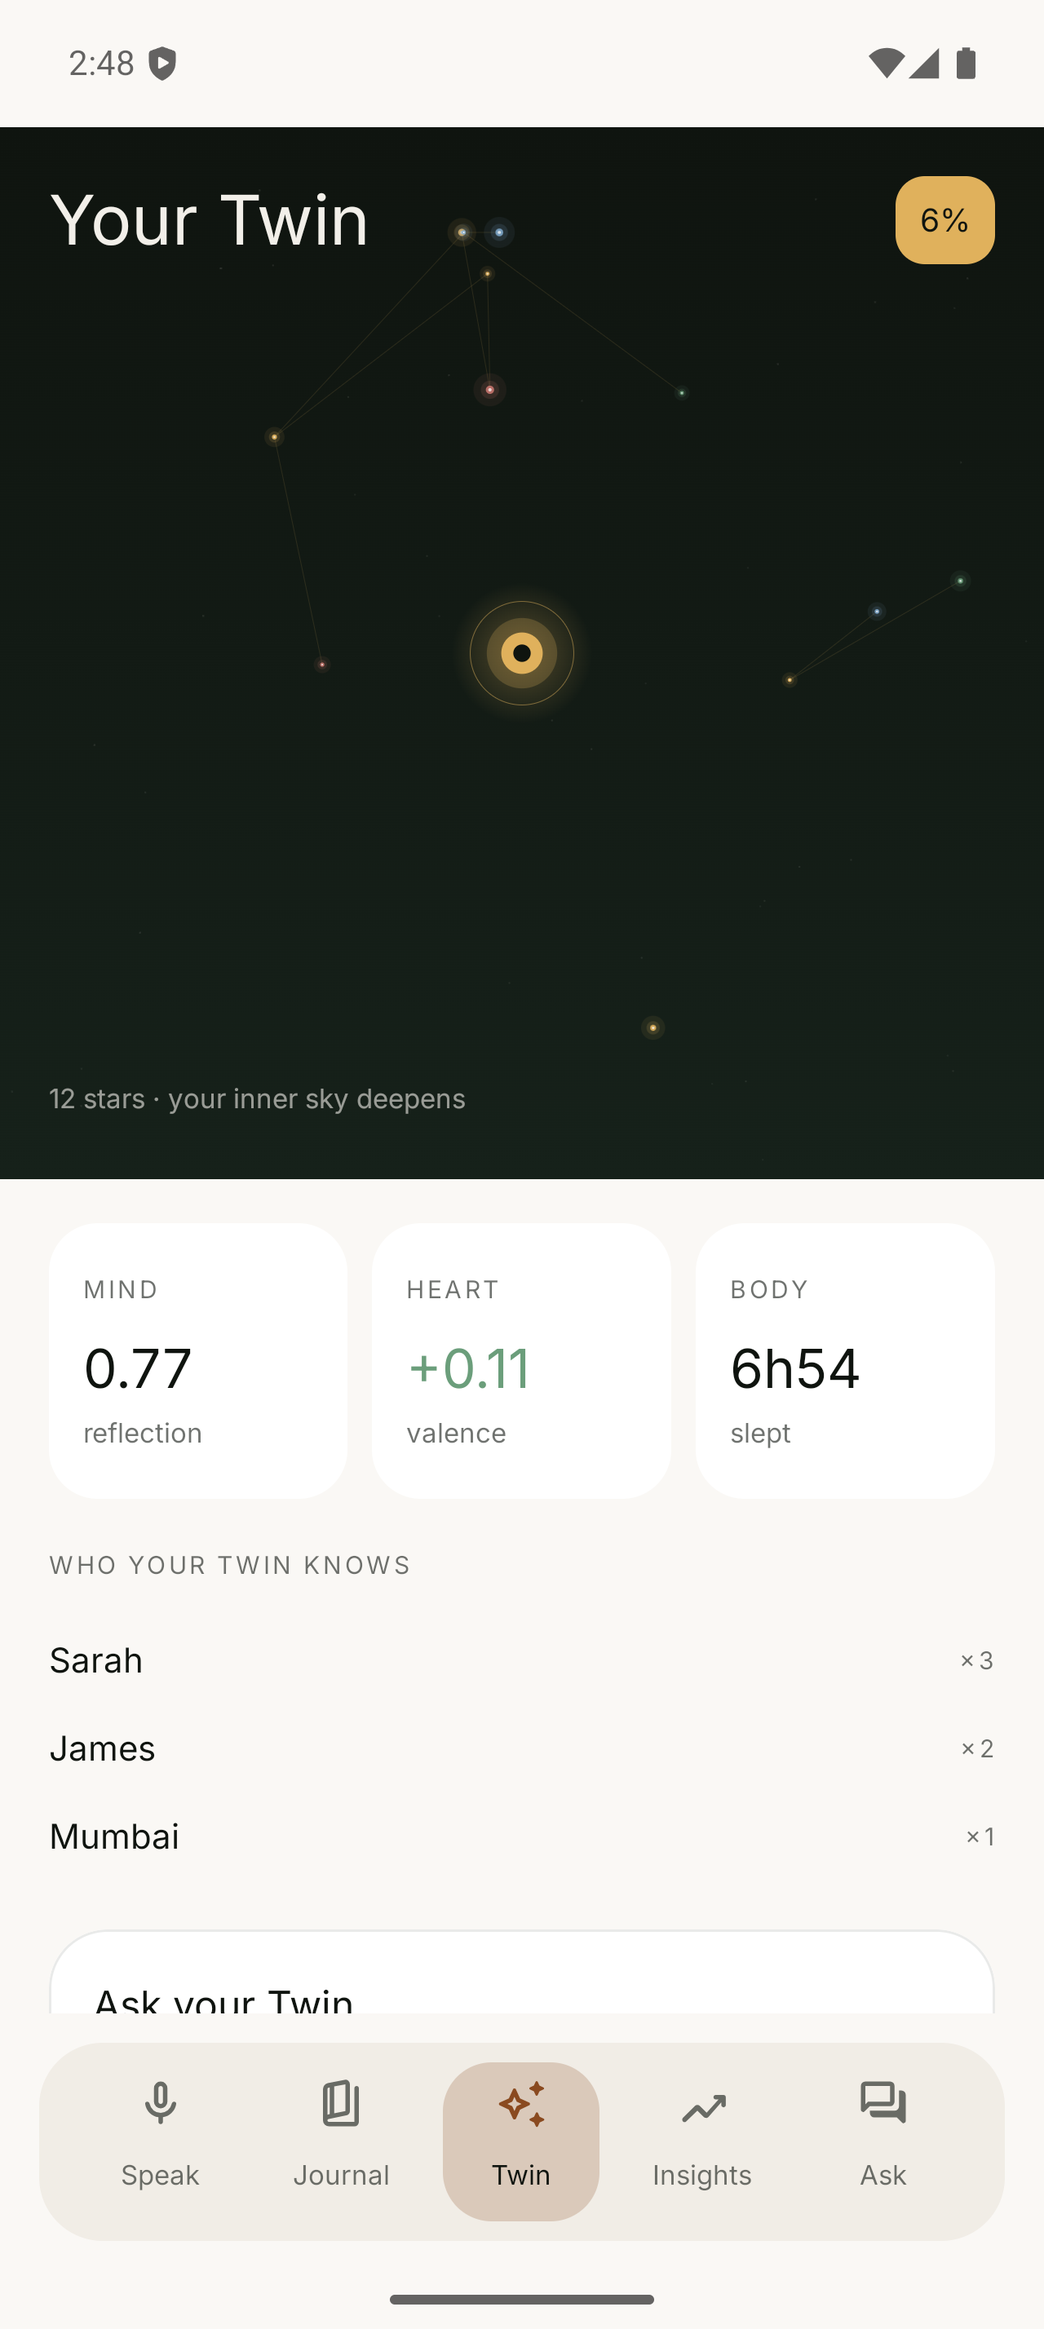
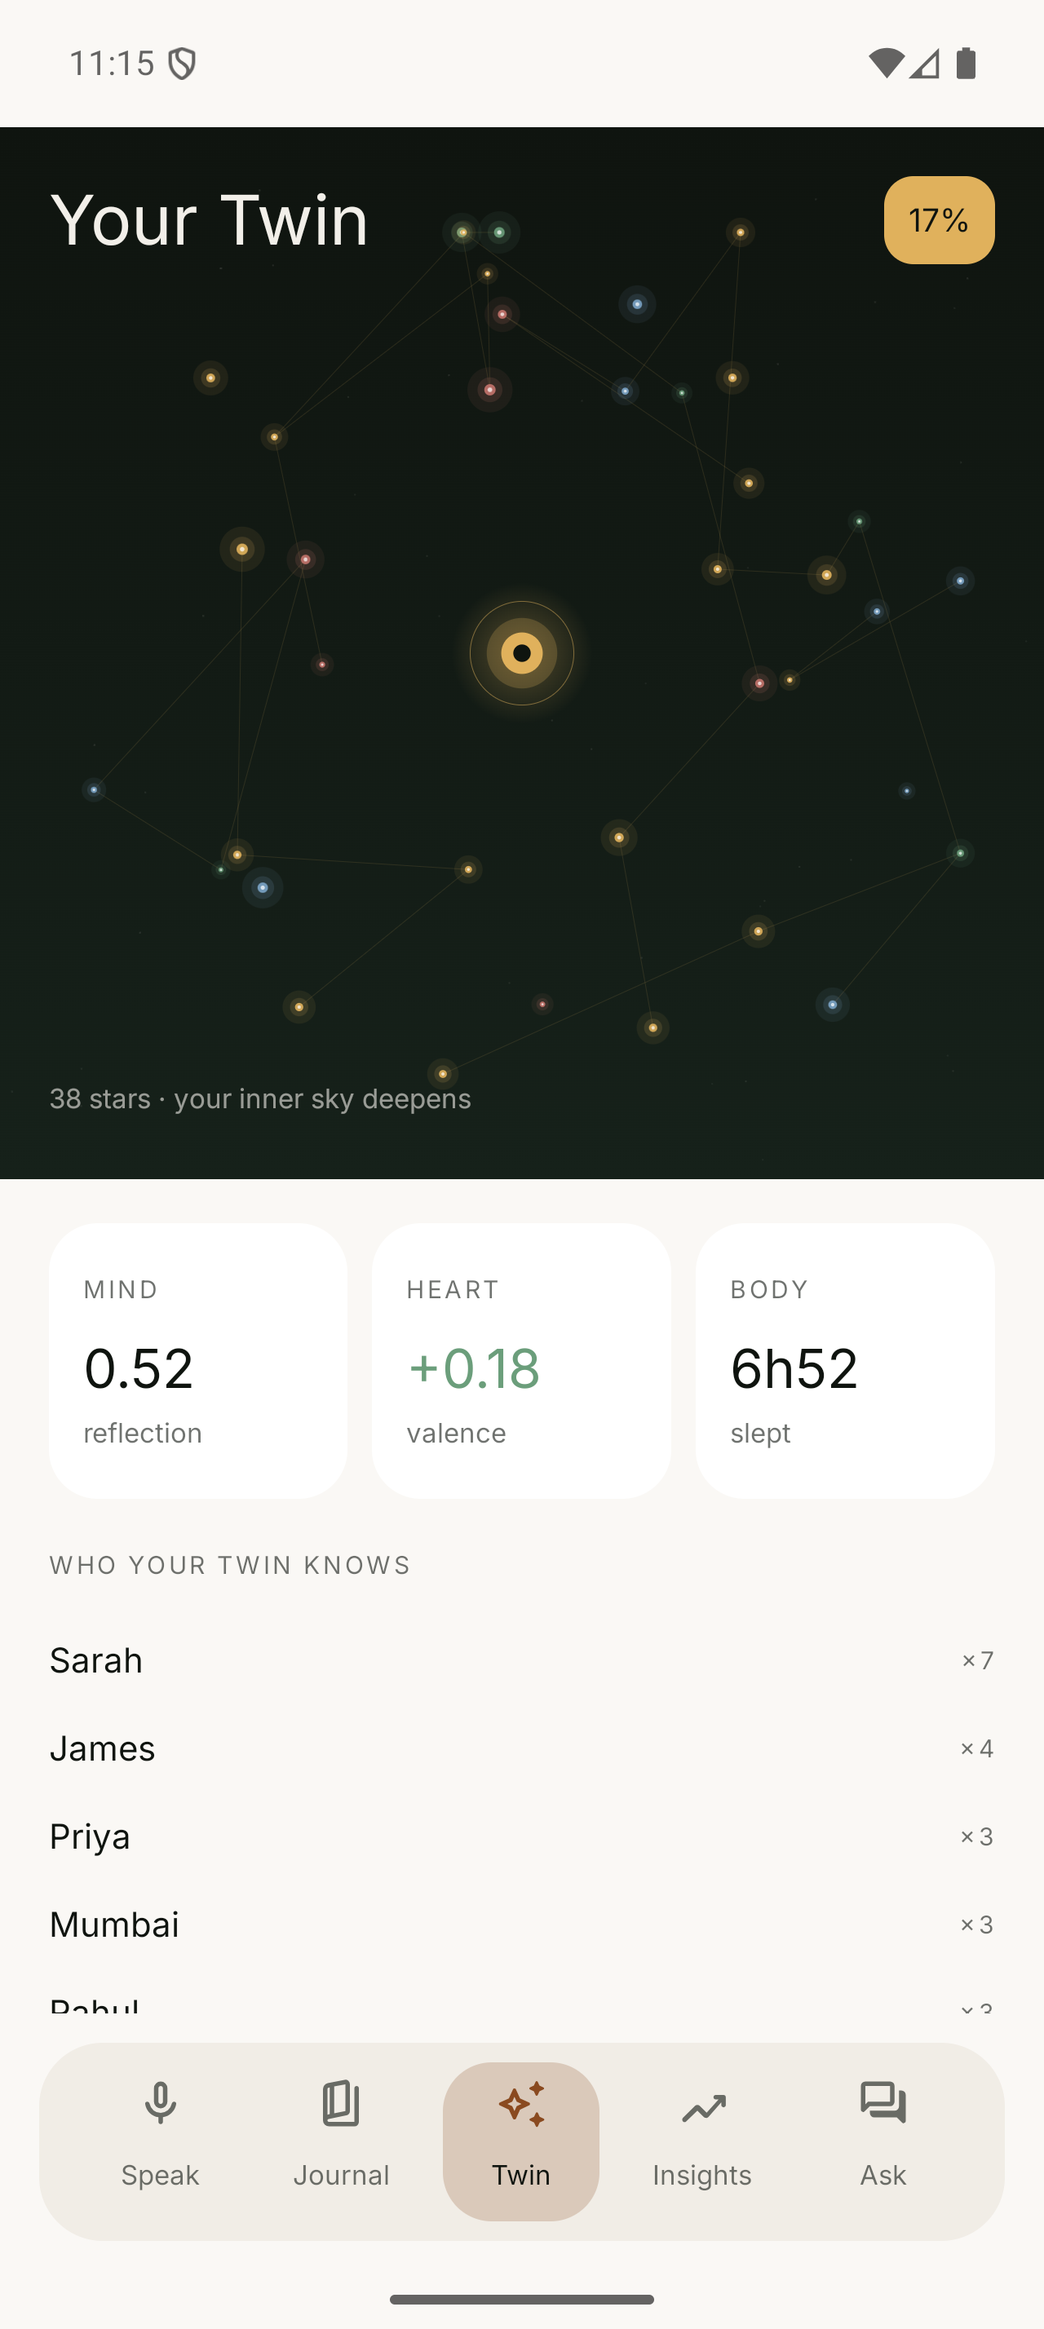
design(android): ship the direction the design package actually recommended
Karthik: "the UI is completely boring and no one will prefer to use it." He was
right, and the cause was not taste — I had shipped the wrong half of the spec.

The design package's direction 1c is annotated, in the designer's own words,
"Night sky — the middle path, AND MY RECOMMENDATION ... dark by default because
the app is used at night." Turn 3 then merged 1b and 1c into one system with two
themes. I built that system and defaulted the theme to SYSTEM — so on any phone
not already in dark mode the app opened on the LIGHT theme: cream paper, ink
text, a black disc for a record button. Technically inside the spec, and the
exact opposite of what was recommended.

- Default theme is now DARK.
- The dark palette is retuned for CONTRAST. The spec's own values rendered as
  mud: surfaces at #1A211A on a #0F140F ground have no edge, so nothing
  separated. Ground goes to #0A0D0A, surface to #1C241C, secondary text from 60%
  to 70%, and amber brightens to #F0BE63 so it reads as the action colour rather
  than a tint.
- The record button is the app's most-used control and was a flat dark disc.
  1c draws a large lit amber one, so: three stacked glow passes instead of a
  single wash, an off-centre highlight so the disc reads as lit rather than
  filled, and a crisp rim against the bloom.
- The mic glyph was one rounded rect, which became a dark smudge in the middle
  of a bright disc. Now a real silhouette — capsule, cradle arc, stem.
[…]

diff --git a/android/app/src/main/kotlin/com/dailyvox/app/data/DummyData.kt b/android/app/src/main/kotlin/com/dailyvox/app/data/DummyData.kt
@@ -16,27 +16,68 @@ import java.util.UUID
  */
 object DummyData {
 
+    /** Sleep hours, cycled across the seed. Nulls are deliberate — a phone with
+     *  no wearable has gaps, and the Body row has to survive them. */
+    private val SLEEP = listOf(
+        7.2f, 6.1f, null, 7.9f, 4.8f, 7.0f, 8.1f, null, 6.4f, 7.5f,
+        6.8f, 7.2f, 5.9f, 8.4f, null, 6.6f, 7.8f, 5.2f, 7.1f, 6.9f,
+        8.0f, null, 6.3f, 7.4f, 4.9f, 7.7f,
+    )
+
     private val texts = listOf(
-        "Walked before anyone was up. Sarah's flight lands tonight and I'm more nervous than I expected. The house feels different when someone's about to come back to it." to 52,
-        "The review went sideways. James pushed back on the timeline and I let it get to me. I should have said less and listened longer." to 78,
-        "Emma called out of nowhere. Two hours. Nothing important, all of it important." to 41,
-        "Long hike up the ridge trail with Sarah. We got rained on half a mile below the summit and neither of us had a jacket. Best afternoon in weeks." to 96,
-        "Slept badly again. Work is sitting on my chest at 3am and I cannot put it down. Need to fix this before it fixes me." to 64,
-        "Priya sent photos from the wedding. The mango cake, the power cut halfway through dinner, a speech that ran twenty minutes long. I laughed out loud on the bus." to 71,
+        "Walked before anyone was up. Sarah's flight lands tonight and I'm more nervous than I expected. The house feels different when someone is about to come back to it, like it has been holding its breath." to 52,
+        "The review went sideways. James pushed back on the timeline and I let it get to me. I should have said less and listened longer, and I knew that while it was happening." to 78,
+        "Emma called out of nowhere and we talked for two hours. Nothing important, all of it important. I forget how much lighter I am afterwards until I hang up." to 41,
+        "Long hike up the ridge trail with Sarah. We got rained on half a mile below the summit and neither of us had a jacket. Best afternoon in weeks and neither of us said so out loud." to 96,
+        "Slept badly again. Work is sitting on my chest at three in the morning and I cannot put it down. Need to fix this before it fixes me." to 64,
+        "Priya sent photos from the wedding. The mango cake, the power cut halfway through dinner, a speech that ran twenty minutes long. I laughed out loud on the bus and did not care." to 71,
         "Quiet Sunday. Cooked properly for the first time in a fortnight, read on the balcony, did not open the laptop once. Calm, and I noticed it while it was happening." to 58,
-        "Told Sarah about the job thing finally. She was steadier about it than I was. Grateful is the word, though it feels too small." to 83,
+        "Told Sarah about the job thing finally. She was steadier about it than I was. Grateful is the word, though it feels too small for what she did." to 83,
         "Frustrated with myself today. Same argument with James, same shape as last month. I keep choosing to be right instead of useful." to 67,
-        "Ran the loop around the reservoir. Headwind both directions somehow. Legs tired, head clear, which is the trade I keep making." to 45,
-        "Emma's moving to Mumbai in March. Happy for her and quietly gutted. Both, all day." to 55,
+        "Ran the loop around the reservoir. Headwind both directions somehow. Legs tired, head clear, which is the trade I keep making and keep being glad about." to 45,
+        "Emma is moving to Mumbai in March. Happy for her and quietly gutted. Both, all day, without either one winning." to 55,
         "Good week. Shipped the thing, slept seven hours three nights running, and nothing broke. Writing it down so I remember it happened." to 62,
+        "Coffee with Adyah before work. She asked what I actually want this year and I did not have an answer ready, which told me something." to 49,
+        "The flat is too quiet with Sarah away. Put music on and cooked badly. It helped more than it should have." to 44,
+        "Long day at the studio with Rahul. We rebuilt the whole second half and it is better, but I am running on fumes." to 88,
+        "Rain all afternoon. Read by the window and let the phone stay in the other room. I should protect these hours more carefully." to 39,
+        "James apologised, properly, without me asking. I did not expect it and I did not handle it well. Better than last month though." to 72,
+        "Saw Priya and the baby. Held her for an hour and got nothing else done. Best hour of the month by a distance." to 47,
+        "Grey mood, no particular reason. Walked to the market anyway and bought too many oranges. Small wins count." to 51,
+        "Sarah is back. The house sounds right again. We stayed up far too late and I regret nothing about it." to 66,
+        "Presented to the board and it went fine, which after three weeks of dread feels almost anticlimactic." to 74,
+        "Nothing happened today and that was the point. First Saturday in months with no plans at all." to 36,
+        "Adyah's leaving do at the noodle place. Loud, warm, slightly too long, exactly right. Mumbai is lucky." to 59,
+        "Woke at four and could not get back down. Made tea at five and watched it get light. Strangely peaceful once I stopped fighting it." to 61,
+        "Trail run with Rahul in the fog. Could not see twenty feet ahead and it was the best hour of the week." to 53,
+        "Difficult call with the team. Said the honest thing instead of the easy thing and it cost me the afternoon." to 81,
+        "Emma sent a photo of her new place in Mumbai. Bare walls, good light. She sounds like herself again." to 43,
+        "Slept nine hours and it changed everything about today. I keep relearning this lesson and keep forgetting it." to 38,
+        "Sarah cooked, I washed up, we argued about a film neither of us liked. An ordinary evening and I would keep it." to 57,
+        "Back on the reservoir loop after a fortnight off. Slower than I wanted, happier than I expected." to 46,
+        "James and I finally agreed on the timeline. Took three weeks longer than it should have and I own most of that." to 69,
+        "Quiet week, steady work, nothing to report. Writing that down feels like its own kind of progress." to 41,
+        "Priya asked how I actually am, and waited for the real answer. Not many people do that." to 54,
+        "Walked to the ridge trail alone at dawn. Nobody there. Sat for twenty minutes and came back different." to 63,
+        "Bad news about the funding. Sat with it, told Sarah, felt better. Still bad news, but carryable." to 77,
+        "First proper sun in weeks. Worked from the balcony and got more done than in a week of the desk." to 48,
+        "Rahul is going freelance. Nervous for him and slightly envious, which is worth noticing." to 52,
+        "Two months of this now. Looking back at the early ones, I sound like someone else. That is the whole point of it." to 65,
     )
 
     fun entries(): List<Entry> {
         val now = System.currentTimeMillis()
         val day = 86_400_000L
-        // Spread across ~5 weeks, with a recent run of consecutive days so the
-        // streak counter and the 30-night strip both have something to show.
-        val offsets = listOf(0L, 1, 2, 3, 5, 8, 11, 15, 19, 24, 29, 34)
+        // Spread across ~13 weeks, with an unbroken run of 21 recent days.
+        //
+        // Deliberately dense. The first seed was twelve entries over five weeks,
+        // which rendered a Twin constellation of twelve sparse dots, a "Day 4"
+        // counter and 6% resolution. Every store screenshot was therefore
+        // advertising an app that looked barely used — the Twin is the product's
+        // hero screen and it was nearly empty. iOS seeds 140 stars for the same
+        // reason.
+        val offsets = (0L..20L).toList() +
+            listOf(22L, 24, 26, 29, 32, 35, 39, 43, 47, 52, 58, 64, 71, 78, 86, 91, 95)
         val corpus = mutableListOf<Entry>()
         texts.forEachIndexed { i, (text, dur) ->
             val (mid, lower) = com.dailyvox.twin.NameDetector.vocabulary(texts.map { it.first })
@@ -44,11 +85,22 @@ object DummyData {
                 Entry(
                     id = UUID.randomUUID().toString(),
                     text = text,
-                    createdAt = now - offsets[i] * day - (i * 3_600_000L),
+                    // Evening times, bounded so the stagger can NEVER cross midnight.
+                    // The previous version subtracted i hours cumulatively, so
+                    // by the 13th entry it had walked back past midnight and
+                    // merged two days — which silently broke the consecutive run
+                    // and showed "Day 7" for a 21-day seed.
+                    createdAt = now - offsets[i] * day - ((i % 5) * 1_800_000L),
                     durationSec = dur,
                     valence = com.dailyvox.twin.Sentiment.valence(text),
                     entities = com.dailyvox.twin.NameDetector.extract(text, mid, lower).joinToString(","),
-                    sleepHours = listOf(7.2f, 6.1f, null, 7.9f, 4.8f, 7.0f, 8.1f, null, 6.4f, 7.5f, 6.8f, 7.2f)[i],
+                    // Cycled, not indexed. This was a fixed 12-element list read
+                    // at [i] while the loop grew to 38 entries — an
+                    // IndexOutOfBoundsException on launch, and one that only
+                    // appeared because the seed got bigger. Any per-entry list
+                    // here has to be modulo-safe or it is a landmine for the
+                    // next person who adds a text.
+                    sleepHours = SLEEP[i % SLEEP.size],
                 )
             )
         }

diff --git a/android/app/src/main/kotlin/com/dailyvox/app/ui/screens/SpeakScreen.kt b/android/app/src/main/kotlin/com/dailyvox/app/ui/screens/SpeakScreen.kt
@@ -316,6 +316,10 @@ private fun RecordButton(
     onTap: () -> Unit,
 ) {
     val scheme = MaterialTheme.colorScheme
+    // In Dark, primary IS amber, so idle is already the bright disc direction 1c
+    // draws. The old build ran Light by default, where primary is ink — which is
+    // how the app's single most important control ended up a flat black circle
+    // on cream.
     val target = when (state) {
         SpeechCapture.State.RECORDING -> scheme.error          // coral
         SpeechCapture.State.PROCESSING -> StarGold
@@ -412,24 +416,74 @@ private fun RecordButton(
             }
             // Glow, then core. Stacked translucent circles rather than a blur —
             // the same technique the iOS constellation uses, and far cheaper.
+            //
+            // Three stacked passes rather than one: a single 34% wash reads as a
+            // smudge on a dark ground, where 1c's disc has a real bloom around
+            // it. Widest and faintest first so the falloff is smooth.
             drawCircle(
                 brush = Brush.radialGradient(
-                    listOf(color.copy(alpha = 0.34f), Color.Transparent),
-                    center = center, radius = r * 0.92f * pulse,
+                    listOf(color.copy(alpha = 0.22f), Color.Transparent),
+                    center = center, radius = r * 1.02f * pulse,
                 ),
-                radius = r * 0.92f * pulse,
+                radius = r * 1.02f * pulse,
             )
-            drawCircle(color, radius = r * 0.46f * pulse)
+            drawCircle(
+                brush = Brush.radialGradient(
+                    listOf(color.copy(alpha = 0.38f), Color.Transparent),
+                    center = center, radius = r * 0.78f * pulse,
+                ),
+                radius = r * 0.78f * pulse,
+            )
+            // The disc itself, with a warmer centre so it reads as lit rather
+            // than filled.
+            drawCircle(
+                brush = Brush.radialGradient(
+                    listOf(
+                        Color.White.copy(alpha = 0.28f),
+                        color,
+                        color.copy(alpha = 0.92f),
+                    ),
+                    center = Offset(center.x - r * 0.10f, center.y - r * 0.12f),
+                    radius = r * 0.52f * pulse,
+                ),
+                radius = r * 0.48f * pulse,
+            )
+            // A crisp rim, so the disc has an edge against the glow.
+            drawCircle(
+                color = Color.White.copy(alpha = 0.16f),
+                radius = r * 0.48f * pulse,
+                style = Stroke(1.5.dp.toPx()),
+            )
         }
         // The mic glyph, drawn rather than an icon font, so it needs no asset.
-        val micColor = if (state == SpeechCapture.State.IDLE) scheme.onPrimary else Color(0xFF0F140F)
-        Canvas(Modifier.size(diameter * 0.20f)) {
+        // Always ink: the disc is bright in every state now.
+        val micColor = Color(0xFF14180F)
+        // A real mic silhouette: capsule, stand and base. The single rounded
+        // rect read as a dark smudge in the middle of a bright disc.
+        Canvas(Modifier.size(diameter * 0.30f)) {
             val w = size.width
+            val stroke = w * 0.075f
             drawRoundRect(
                 color = micColor,
-                topLeft = Offset(w * 0.34f, w * 0.16f),
-                size = androidx.compose.ui.geometry.Size(w * 0.32f, w * 0.50f),
-                cornerRadius = androidx.compose.ui.geometry.CornerRadius(w * 0.16f),
+                topLeft = Offset(w * 0.36f, w * 0.10f),
+                size = androidx.compose.ui.geometry.Size(w * 0.28f, w * 0.46f),
+                cornerRadius = androidx.compose.ui.geometry.CornerRadius(w * 0.14f),
+            )
+            // Cradle
+            drawArc(
+                color = micColor,
+                startAngle = 0f, sweepAngle = 180f, useCenter = false,
+                topLeft = Offset(w * 0.24f, w * 0.34f),
+                size = androidx.compose.ui.geometry.Size(w * 0.52f, w * 0.42f),
+                style = Stroke(stroke, cap = androidx.compose.ui.graphics.StrokeCap.Round),
+            )
+            // Stem
+            drawLine(
+                color = micColor,
+                start = Offset(w * 0.50f, w * 0.72f),
+                end = Offset(w * 0.50f, w * 0.88f),
+                strokeWidth = stroke,
+                cap = androidx.compose.ui.graphics.StrokeCap.Round,
             )
         }
     }

diff --git a/android/app/src/main/kotlin/com/dailyvox/app/ui/theme/Color.kt b/android/app/src/main/kotlin/com/dailyvox/app/ui/theme/Color.kt
@@ -24,15 +24,26 @@ val LightAccentNegative = Color(0xFFB0533A)
 val LightPositive       = Color(0xFF4F7A3E)
 
 // ── Dark: night sky ──────────────────────────────────────────────────────────
-val DarkBackground      = Color(0xFF0F140F)
-val DarkSurface         = Color(0xFF1A211A)   // tonal, no borders
-val DarkText            = Color(0xFFF2EFE9)
-val DarkTextSecondary   = Color(0x99F2EFE9)
-val DarkAccent          = Color(0xFFE0B15C)   // amber — dark-only
-val DarkAccentNegative  = Color(0xFFC0705A)
-val DarkPositive        = Color(0xFF9CCB85)
+//
+// Retuned for CONTRAST. The first pass was technically the spec's values and
+// rendered as mud: cards at #1A211A sat almost on top of a #0F140F ground, so
+// nothing had edges, and every accent was used at low opacity. Direction 1c —
+// the design package's actual recommendation — is not subtle. It has a bright
+// amber record disc, a solid amber nav pill and clearly lifted surfaces.
+//
+// The ground goes darker and the surfaces lighter so they separate; amber gets
+// brighter so it reads as the action colour rather than a tint.
+val DarkBackground      = Color(0xFF0A0D0A)   // deeper, so surfaces can lift
+val DarkSurface         = Color(0xFF1C241C)   // clearly above the ground
+val DarkSurfaceHigh     = Color(0xFF273127)   // pressed / active states
+val DarkText            = Color(0xFFF4F1E8)
+val DarkTextSecondary   = Color(0xB3F4F1E8)   // 70%, was 60% and read as grey mush
+val DarkAccent          = Color(0xFFF0BE63)   // brighter amber — this is the ACTION colour
+val DarkAccentDim       = Color(0xFF8A6E33)
+val DarkAccentNegative  = Color(0xFFD4816A)
+val DarkPositive        = Color(0xFFA8D98C)
 
 // ── Constellation: dark in BOTH themes, never wallpaper-themed ───────────────
 val SkyTop    = Color(0xFF0F140F)
 val SkyBottom = Color(0xFF16211A)
-val StarGold  = Color(0xFFE0B15C)
+val StarGold  = Color(0xFFF0BE63)

diff --git a/android/app/src/main/kotlin/com/dailyvox/app/MainActivity.kt b/android/app/src/main/kotlin/com/dailyvox/app/MainActivity.kt
@@ -59,7 +59,12 @@ private fun DailyVoxApp(vm: AppViewModel, activity: FragmentActivity) {
     }
     var unlocked by rememberSaveable { mutableStateOf(false) }
     val lockAvailable = lockAvailableNow
-    var theme by rememberSaveable { mutableStateOf(ThemeChoice.valueOf(prefs.getString("theme", "SYSTEM")!!)) }
+    // DARK by default, not SYSTEM. The design package's recommended direction
+    // (1c, "the middle path, and my recommendation") says it plainly: "dark by
+    // default because the app is used at night". Defaulting to SYSTEM meant most
+    // phones opened this on cream, which is the Light theme — technically in the
+    // spec, and the reason the app read as beige and lifeless.
+    var theme by rememberSaveable { mutableStateOf(ThemeChoice.valueOf(prefs.getString("theme", "DARK")!!)) }
     var current by rememberSaveable { mutableStateOf(Destination.SPEAK) }
     var overlay by rememberSaveable { mutableStateOf(Overlay.NONE) }
     var openEntry by remember { mutableStateOf<Entry?>(null) }
